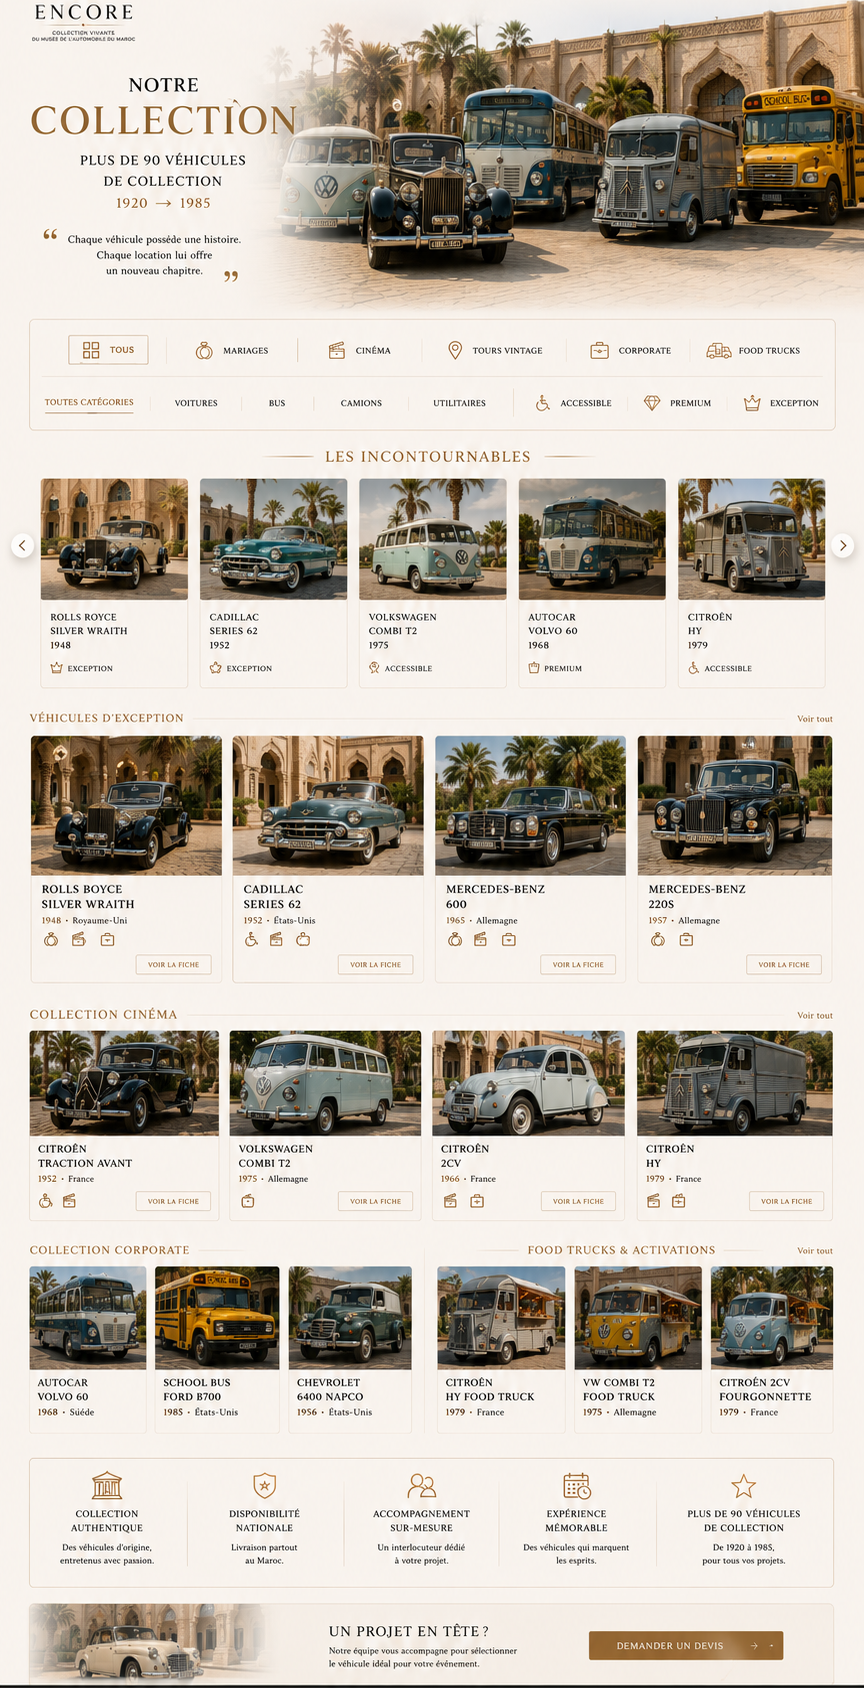
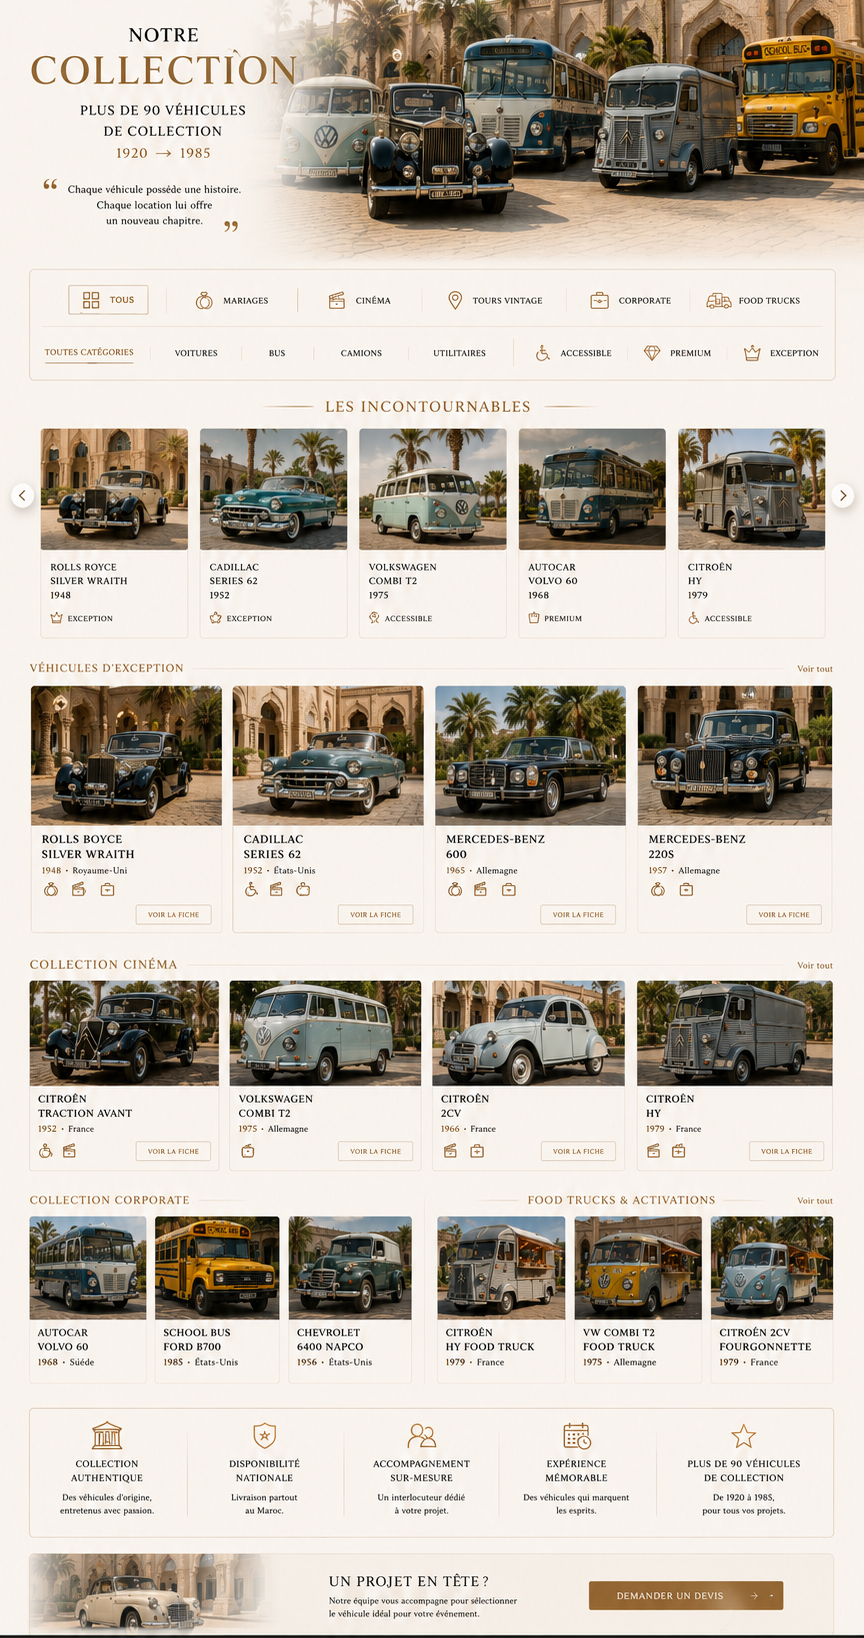
Fix collection page width and header

diff --git a/styles.css b/styles.css
@@ -31,7 +31,7 @@ body {
 }
 
 .collection-page {
-  --content: min(94vw, 806px);
+  --content: min(94vw, 1050px);
   min-width: 320px;
 }
 
@@ -875,7 +875,7 @@ textarea {
 }
 
 .footer-artboard {
-  width: min(100vw, 864px);
+  width: min(100vw, 1050px);
   height: auto;
   margin: 0 auto;
 }
@@ -959,14 +959,50 @@ textarea {
 }
 
 .collection-page-main {
-  width: min(100vw, 864px);
+  width: min(100vw, 1050px);
   margin: 0 auto;
-  padding-top: 60px;
+  padding-top: clamp(86px, 12.73vw, 134px);
 }
 
 .collection-page-artboard {
   width: 100%;
   height: auto;
+}
+
+.collection-page .site-header {
+  height: clamp(104px, 12.58vw, 132px);
+}
+
+.collection-page .header-inner {
+  width: min(94vw, 1050px);
+  grid-template-columns: clamp(145px, 18.1vw, 190px) 1fr clamp(116px, 12.95vw, 136px);
+  column-gap: clamp(10px, 1.7vw, 18px);
+}
+
+.collection-page .brand {
+  width: clamp(112px, 12.85vw, 135px);
+  margin-top: clamp(10px, 1.43vw, 15px);
+}
+
+.collection-page .main-nav {
+  gap: clamp(14px, 2.25vw, 24px);
+  margin-top: clamp(30px, 4.1vw, 43px);
+  transform: none;
+}
+
+.collection-page .main-nav a {
+  font-size: clamp(8px, 0.95vw, 10px);
+}
+
+.collection-page .main-nav a.active::after {
+  bottom: clamp(-10px, -0.95vw, -8px);
+}
+
+.collection-page .quote-link {
+  width: clamp(116px, 12.95vw, 136px);
+  height: clamp(28px, 3.23vw, 34px);
+  margin-top: clamp(20px, 2.38vw, 25px);
+  font-size: clamp(8px, 0.86vw, 9px);
 }
 
 @media (min-width: 1200px) {
@@ -1308,5 +1344,37 @@ textarea {
   .btn-primary,
   .btn-ghost {
     width: 100%;
+  }
+}
+
+@media (max-width: 760px) {
+  .collection-page .site-header {
+    height: 86px;
+  }
+
+  .collection-page .header-inner {
+    width: 100%;
+    padding: 0 20px;
+    grid-template-columns: 104px 1fr 44px;
+    column-gap: 0;
+  }
+
+  .collection-page .brand {
+    width: 96px;
+    margin-top: 8px;
+  }
+
+  .collection-page .main-nav {
+    top: 86px;
+    margin: 0;
+    gap: 14px;
+  }
+
+  .collection-page .main-nav a {
+    font-size: 10px;
+  }
+
+  .collection-page .main-nav a.active::after {
+    bottom: -5px;
   }
 }